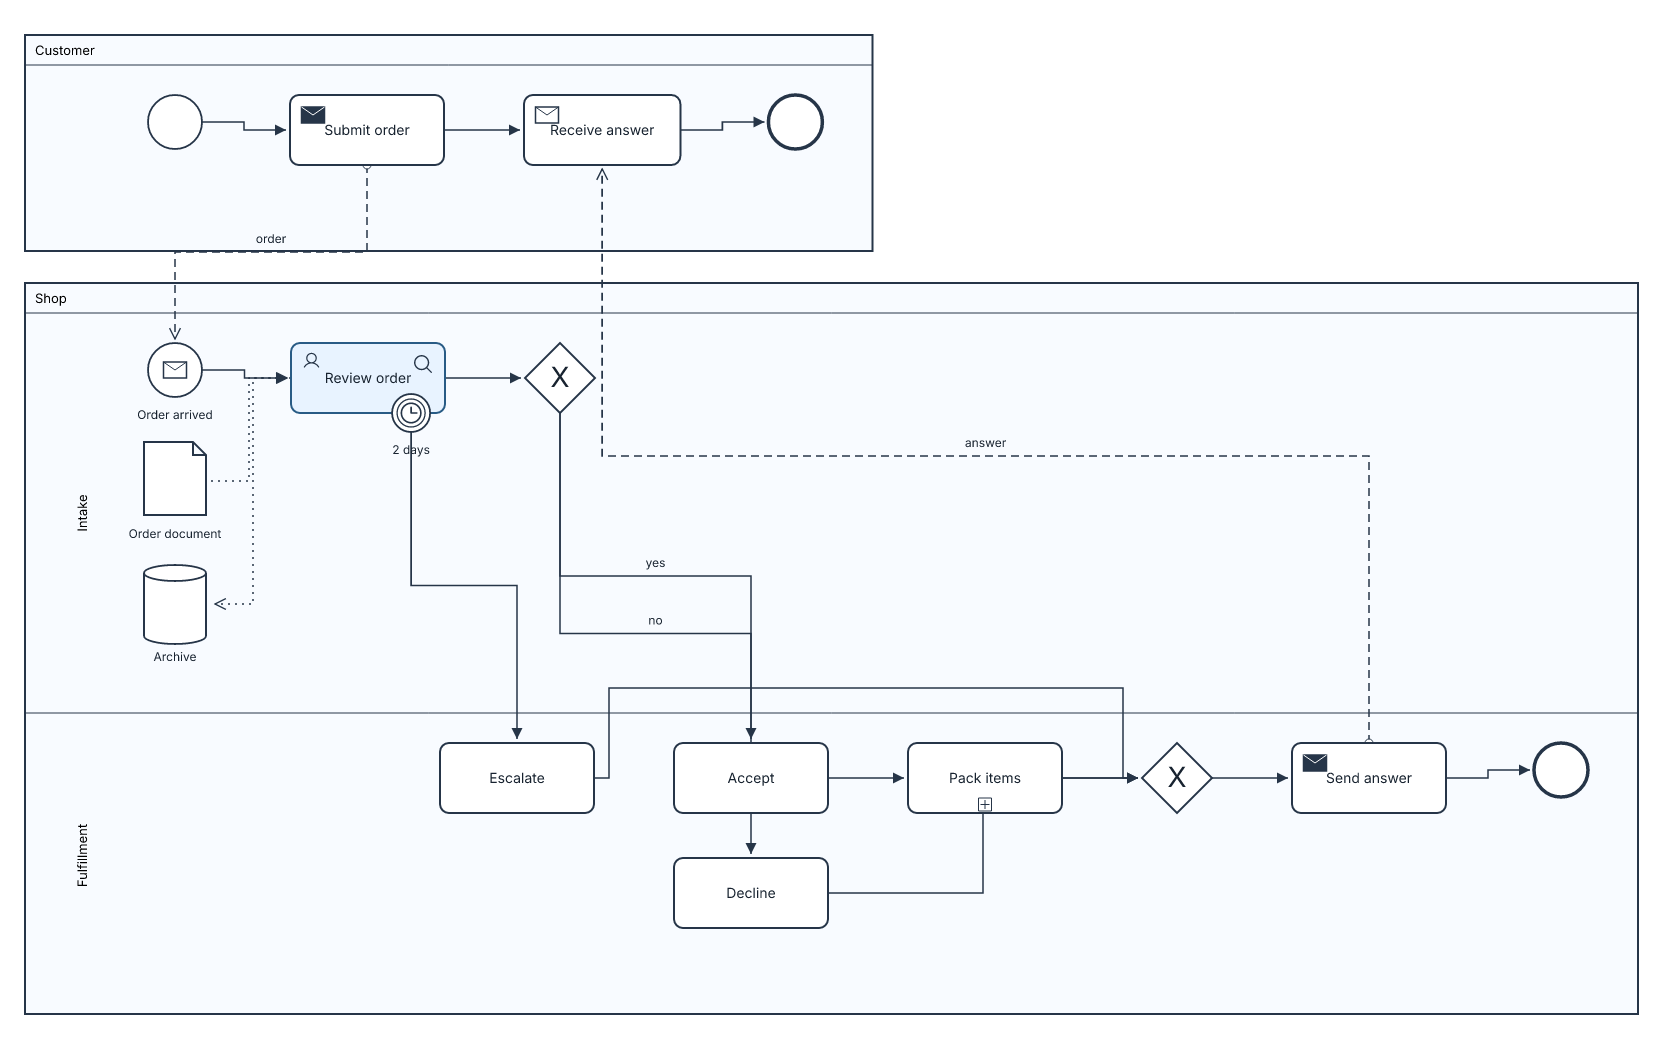
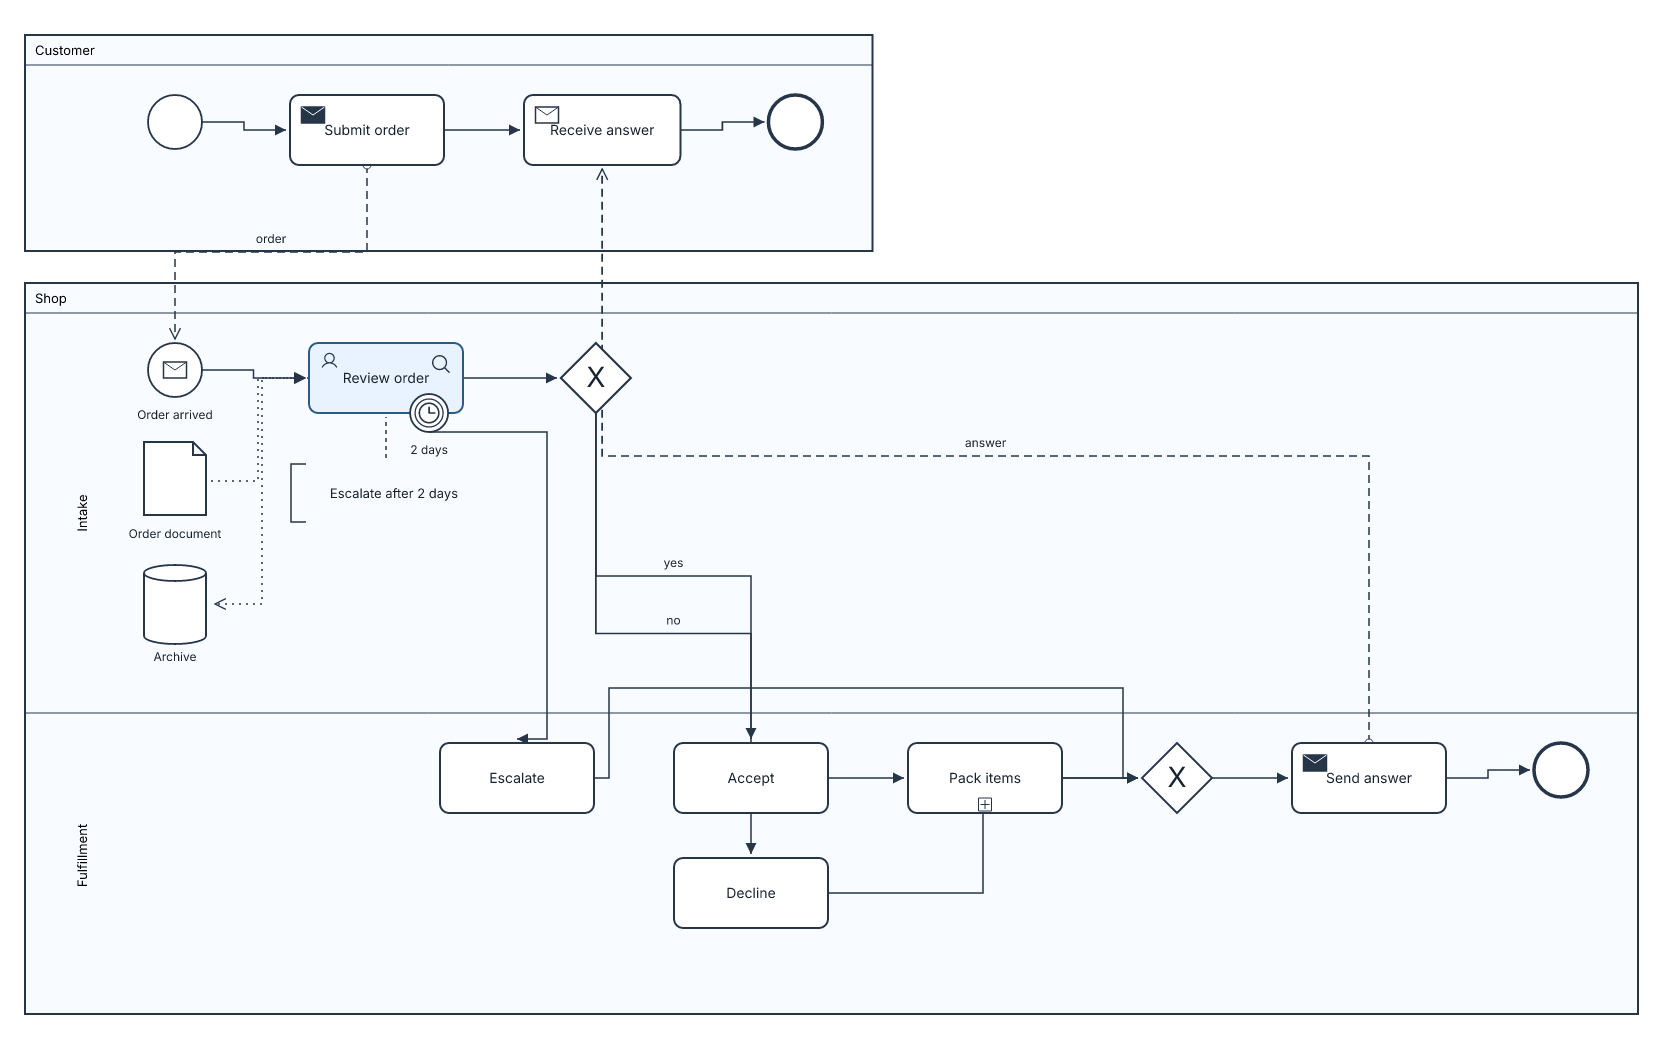
Add BPMN text annotations and obstacle-aware routing

diff --git a/src/bpmn/render.rs b/src/bpmn/render.rs
@@ -138,6 +138,10 @@ fn shape(svg: &mut String, n: &Node, b: BoxAt, icon: Option<&str>) {
                 text(svg, x, y + h / 2.0 + 22.0, &n.label, 12.0);
             }
         }
+        Kind::Annotation => {
+            writeln!(svg,"<path class=\"bpmn-body\" d=\"M {:.1} {:.1} H {:.1} V {:.1} H {:.1}\" fill=\"none\" stroke=\"#263548\" stroke-width=\"1.6\"/>",x-w/2.0+15.0,y-h/2.0+6.0,x-w/2.0,y+h/2.0-6.0,x-w/2.0+15.0).unwrap();
+            text(svg, x + 8.0, y + 5.0, &n.label, 13.0);
+        }
         Kind::Data => {
             writeln!(svg,"<path class=\"bpmn-body\" d=\"M {:.1} {:.1} h 49 l 13 13 v 60 h -62 Z M {:.1} {:.1} v 13 h 13\" fill=\"white\" stroke=\"#263548\" stroke-width=\"1.8\"/>",x-31.0,y-39.0,x+18.0,y-39.0).unwrap();
             text(svg, x, y + 57.0, &n.label, 12.0);
@@ -176,6 +180,7 @@ fn edge(svg: &mut String, doc: &Document, geom: &Geometry, e: &super::Edge) {
         EdgeKind::Sequence => ("", "solid-arrow"),
         EdgeKind::Message => ("stroke-dasharray=\"8 5\"", "open-arrow"),
         EdgeKind::Data => ("stroke-dasharray=\"2 5\"", "open-arrow"),
+        EdgeKind::Association => ("stroke-dasharray=\"4 4\"", ""),
     };
     let (mid_x, mid_y) = ((x1 + x2) / 2.0, (y1 + y2) / 2.0);
     let blocked = horizontal
@@ -217,6 +222,39 @@ fn edge(svg: &mut String, doc: &Document, geom: &Geometry, e: &super::Edge) {
             corridor -= 45.0;
         }
     }
+    let blocked_vertical = !horizontal
+        && e.kind != EdgeKind::Message
+        && doc.nodes.iter().enumerate().any(|(i, n)| {
+            if i == ai
+                || i == bi
+                || n.parent != doc.nodes[ai].parent
+                || n.pool != doc.nodes[ai].pool
+            {
+                return false;
+            }
+            let q = geom.nodes[i];
+            q.x - q.w / 2.0 < x1
+                && q.x + q.w / 2.0 > x1
+                && q.y + q.h / 2.0 > y1.min(y2)
+                && q.y - q.h / 2.0 < y1.max(y2)
+        });
+    let corridor_x = if blocked_vertical {
+        doc.nodes
+            .iter()
+            .enumerate()
+            .filter(|(i, n)| {
+                *i != ai
+                    && *i != bi
+                    && n.parent == doc.nodes[ai].parent
+                    && n.pool == doc.nodes[ai].pool
+            })
+            .map(|(i, _)| geom.nodes[i])
+            .filter(|q| q.y + q.h / 2.0 > y1.min(y2) && q.y - q.h / 2.0 < y1.max(y2))
+            .map(|q| q.x + q.w / 2.0 + 30.0)
+            .fold(x1.max(x2) + 30.0, f64::max)
+    } else {
+        mid_x
+    };
     let path = if blocked {
         format!(
             "M {x1:.1} {y1:.1} L {:.1} {y1:.1} L {:.1} {corridor:.1} L {:.1} {corridor:.1} L {:.1} {y2:.1} L {x2:.1} {y2:.1}",
@@ -227,10 +265,23 @@ fn edge(svg: &mut String, doc: &Document, geom: &Geometry, e: &super::Edge) {
         )
     } else if horizontal {
         format!("M {x1:.1} {y1:.1} L {mid_x:.1} {y1:.1} L {mid_x:.1} {y2:.1} L {x2:.1} {y2:.1}")
+    } else if blocked_vertical {
+        format!(
+            "M {x1:.1} {y1:.1} L {corridor_x:.1} {y1:.1} L {corridor_x:.1} {y2:.1} L {x2:.1} {y2:.1}"
+        )
     } else {
         format!("M {x1:.1} {y1:.1} L {x1:.1} {mid_y:.1} L {x2:.1} {mid_y:.1} L {x2:.1} {y2:.1}")
     };
-    writeln!(svg,"<path d=\"{path}\" fill=\"none\" stroke=\"#263548\" stroke-width=\"1.7\" {dash} marker-end=\"url(#{marker})\"/>").unwrap();
+    let arrow = if marker.is_empty() {
+        String::new()
+    } else {
+        format!("marker-end=\"url(#{marker})\"")
+    };
+    writeln!(
+        svg,
+        "<path d=\"{path}\" fill=\"none\" stroke=\"#263548\" stroke-width=\"1.7\" {dash} {arrow}/>"
+    )
+    .unwrap();
     if e.kind == EdgeKind::Message {
         writeln!(
             svg,

diff --git a/src/bpmn/parser.rs b/src/bpmn/parser.rs
@@ -22,12 +22,14 @@ pub enum Kind {
     Collapsed,
     Data,
     Store,
+    Annotation,
 }
 #[derive(Clone, Copy, Debug, PartialEq, Eq)]
 pub enum EdgeKind {
     Sequence,
     Message,
     Data,
+    Association,
 }
 #[derive(Clone, Debug)]
 pub struct Node {
@@ -290,6 +292,7 @@ fn endpoint(doc: &mut Document, text: &str, ctx: &Context, line: usize) -> Resul
         ("manualTask ", Kind::ManualTask, None),
         ("data ", Kind::Data, None),
         ("store ", Kind::Store, None),
+        ("note ", Kind::Annotation, None),
         ("<X>@", Kind::Exclusive, None),
         ("<+>@", Kind::Parallel, None),
         ("<O>@", Kind::Inclusive, None),
@@ -334,8 +337,8 @@ fn add_edge(
             }
             if a.kind == Kind::End
                 || matches!(b.kind, Kind::Start | Kind::Boundary)
-                || matches!(a.kind, Kind::Data | Kind::Store)
-                || matches!(b.kind, Kind::Data | Kind::Store)
+                || matches!(a.kind, Kind::Data | Kind::Store | Kind::Annotation)
+                || matches!(b.kind, Kind::Data | Kind::Store | Kind::Annotation)
             {
                 return Err(error(line, "invalid sequence-flow endpoint"));
             }
@@ -358,13 +361,27 @@ fn add_edge(
                     "message flow requires separate pools and visible endpoints",
                 ));
             }
-            if matches!(a.kind, Kind::Data | Kind::Store)
-                || matches!(b.kind, Kind::Data | Kind::Store)
+            if matches!(a.kind, Kind::Data | Kind::Store | Kind::Annotation)
+                || matches!(b.kind, Kind::Data | Kind::Store | Kind::Annotation)
             {
                 return Err(error(line, "message flow cannot connect data objects"));
             }
         }
+        EdgeKind::Association => {
+            if a.pool != b.pool
+                || a.parent != b.parent
+                || (a.kind == Kind::Annotation) == (b.kind == Kind::Annotation)
+            {
+                return Err(error(
+                    line,
+                    "text annotation association needs one note in the same scope",
+                ));
+            }
+        }
         EdgeKind::Data => {
+            if a.kind == Kind::Annotation || b.kind == Kind::Annotation {
+                return Err(error(line, "text annotation needs '..' without arrow"));
+            }
             if a.pool != b.pool
                 || a.parent != b.parent
                 || !(matches!(a.kind, Kind::Data | Kind::Store)

diff --git a/src/bpmn/geometry.rs b/src/bpmn/geometry.rs
@@ -1,5 +1,5 @@
 //! Source-derived placement: participant bands, lane bands, flow ranks and nested subprocesses.
-use super::{Document, EdgeKind, Kind, Node};
+use super::{Document, Kind, Node};
 
 #[derive(Clone, Copy, Debug, Default)]
 pub(super) struct BoxAt {
@@ -42,7 +42,8 @@ fn size(doc: &Document, node: &Node) -> (f64, f64) {
         | Kind::ReceiveTask
         | Kind::ScriptTask
         | Kind::ManualTask
-        | Kind::Collapsed => (
+        | Kind::Collapsed
+        | Kind::Annotation => (
             (crate::text::measure(&node.label, 14.0).unwrap_or(100.0) + 52.0).max(154.0),
             70.0,
         ),
@@ -62,50 +63,8 @@ fn size(doc: &Document, node: &Node) -> (f64, f64) {
         }
     }
 }
-fn ranks(doc: &Document) -> Vec<usize> {
-    let mut adjacency: Vec<Vec<usize>> = vec![vec![]; doc.nodes.len()];
-    let mut accepted = Vec::new();
-    // A directed cycle loses only the last automatic placement preference.
-    for edge in doc.edges.iter().filter(|e| e.kind == EdgeKind::Sequence) {
-        let mut a = doc.nodes.iter().position(|n| n.id == edge.from).unwrap();
-        let b = doc.nodes.iter().position(|n| n.id == edge.to).unwrap();
-        if doc.nodes[a].kind == Kind::Boundary
-            && let Some(owner) = &doc.nodes[a].attached
-        {
-            a = doc.nodes.iter().position(|n| &n.id == owner).unwrap();
-        }
-        if a == b {
-            continue;
-        }
-        let mut visited = vec![false; doc.nodes.len()];
-        let mut stack = vec![b];
-        while let Some(i) = stack.pop() {
-            if visited[i] {
-                continue;
-            }
-            visited[i] = true;
-            stack.extend(adjacency[i].iter().copied());
-        }
-        if !visited[a] {
-            adjacency[a].push(b);
-            accepted.push((a, b));
-        }
-    }
-    let mut result = vec![0usize; doc.nodes.len()];
-    for _ in 0..doc.nodes.len() {
-        let mut changed = false;
-        for &(a, b) in &accepted {
-            if result[b] <= result[a] {
-                result[b] = result[a] + 1;
-                changed = true;
-            }
-        }
-        if !changed {
-            break;
-        }
-    }
-    result
-}
+mod ranks;
+use ranks::ranks;
 fn node_index(doc: &Document, name: &str) -> Result<usize, String> {
     let indices: Vec<_> = doc
         .nodes

diff --git a/src/bpmn/geometry/ranks.rs b/src/bpmn/geometry/ranks.rs
@@ -1,0 +1,55 @@
+//! Stable automatic ranks; annotations track the element they describe.
+use super::super::{Document, EdgeKind, Kind};
+pub(super) fn ranks(doc: &Document) -> Vec<usize> {
+    let mut adjacency: Vec<Vec<usize>> = vec![vec![]; doc.nodes.len()];
+    let mut accepted = Vec::new();
+    // A directed cycle loses only the last automatic placement preference.
+    for edge in doc.edges.iter().filter(|e| e.kind == EdgeKind::Sequence) {
+        let mut a = doc.nodes.iter().position(|n| n.id == edge.from).unwrap();
+        let b = doc.nodes.iter().position(|n| n.id == edge.to).unwrap();
+        if doc.nodes[a].kind == Kind::Boundary
+            && let Some(owner) = &doc.nodes[a].attached
+        {
+            a = doc.nodes.iter().position(|n| &n.id == owner).unwrap();
+        }
+        if a == b {
+            continue;
+        }
+        let mut visited = vec![false; doc.nodes.len()];
+        let mut stack = vec![b];
+        while let Some(i) = stack.pop() {
+            if visited[i] {
+                continue;
+            }
+            visited[i] = true;
+            stack.extend(adjacency[i].iter().copied());
+        }
+        if !visited[a] {
+            adjacency[a].push(b);
+            accepted.push((a, b));
+        }
+    }
+    let mut result = vec![0usize; doc.nodes.len()];
+    for _ in 0..doc.nodes.len() {
+        let mut changed = false;
+        for &(a, b) in &accepted {
+            if result[b] <= result[a] {
+                result[b] = result[a] + 1;
+                changed = true;
+            }
+        }
+        if !changed {
+            break;
+        }
+    }
+    for edge in doc.edges.iter().filter(|e| e.kind == EdgeKind::Association) {
+        let a = doc.nodes.iter().position(|n| n.id == edge.from).unwrap();
+        let b = doc.nodes.iter().position(|n| n.id == edge.to).unwrap();
+        if doc.nodes[a].kind == Kind::Annotation {
+            result[a] = result[b];
+        } else if doc.nodes[b].kind == Kind::Annotation {
+            result[b] = result[a];
+        }
+    }
+    result
+}

diff --git a/tests/bpmn_integration.rs b/tests/bpmn_integration.rs
@@ -46,6 +46,17 @@ fn all_bpmn_examples_export_to_every_format() {
 }
 
 #[test]
+fn annotation_is_not_data_or_sequence_flow() {
+    let source =
+        "settings {\ntype: bpmn\n}\nsemantics {\nA --> B\nnote Info(\"Check again\")\nInfo .. A\n}";
+    let doc = bpmn::parse(source).unwrap();
+    let svg = bpmn::render(&doc, TextMode::System).unwrap();
+    assert!(svg.contains("stroke-dasharray=\"4 4\""));
+    assert!(bpmn::parse(&source.replace("Info .. A", "Info ..> A")).is_err());
+    assert!(bpmn::parse(&source.replace("Info .. A", "Info --> A")).is_err());
+}
+
+#[test]
 fn no_icon_needs_no_phosphor_notice() {
     let source = "settings {\ntype: bpmn\n}\nsemantics {\nstartEvent Start\nStart --> Plain\nPlain --> endEvent End\n}";
     let doc = bpmn::parse(source).unwrap();

diff --git a/src/bpmn/parser/flow.rs b/src/bpmn/parser/flow.rs
@@ -55,6 +55,8 @@ fn arrows(text: &str) -> Vec<(&str, Option<EdgeKind>)> {
                     ("~~>", EdgeKind::Message)
                 } else if text[i..].starts_with("..>") {
                     ("..>", EdgeKind::Data)
+                } else if text[i..].starts_with("..") {
+                    ("..", EdgeKind::Association)
                 } else {
                     continue;
                 };

diff --git a/docs/bpmn-diagrams.md b/docs/bpmn-diagrams.md
@@ -60,7 +60,7 @@ Review -(error@Failure:"Failed")-> HandleError
 Review -(message@Cancellation:"Cancel")-> Cancel
 ```
 
-`timer+` and `message+` denote noninterrupting boundary events with dashed rings. The string is diagram text, not an evaluated timer expression. `data Order("Order document")` and `store Archive("Archive")` are associated with tasks using `Order ..> Review` and `Review ..> Archive`.
+`timer+` and `message+` denote noninterrupting boundary events with dashed rings. The string is diagram text, not an evaluated timer expression. `data Order("Order document")` and `store Archive("Archive")` are associated with tasks using `Order ..> Review` and `Review ..> Archive`. A BPMN text annotation uses `note Policy("Escalate after 2 days")` and an undirected dashed association `Policy .. Review`; it is neither a data association nor a process step.
 
 `+Check("Pack items")` draws a **collapsed** subprocess; `Check("Pack items") { ... }` draws its inner flow in a visibly **expanded** frame. These are alternative depictions, not two declarations of the same ID. Outer flows connect to the subprocess border, never directly to its inner nodes. See [`examples/bpmn-subprocess.laml`](../examples/bpmn-subprocess.laml):
 
@@ -99,4 +99,4 @@ styling {
 
 ## Coverage boundary
 
-The current BPMN drawing subset does not include BPMN XML interchange, choreography/conversation diagrams, simulation, complex gateways, transactions, compensation, text annotations, event subprocesses, multi-instance task markers or every event subtype. It aims to cover common *drawn* processes and collaborations while rejecting unsupported constructs. Read that boundary before using the diagrams as evidence of BPMN conformance.
+The current BPMN drawing subset does not include BPMN XML interchange, choreography/conversation diagrams, simulation, complex gateways, transactions, compensation, event subprocesses, multi-instance task markers or every event subtype. It aims to cover common *drawn* processes and collaborations while rejecting unsupported constructs. Read that boundary before using the diagrams as evidence of BPMN conformance.
